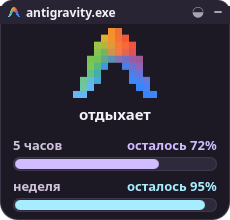
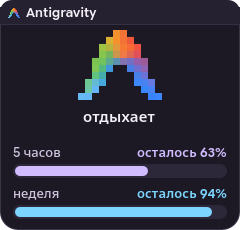
Fix status detection: strict TTY CLI tracking, microsecond glog parsing, smooth Google Sans Flex font rendering, Material 3 Expressive polish

diff --git a/contents/ui/PixelWindow.qml b/contents/ui/PixelWindow.qml
@@ -120,54 +120,18 @@ Rectangle {
                 }
 
                 Text {
-                    text: root.titleText
+                    text: (root.titleText === "antigravity.exe" && PixelTheme.isRounded) ? "Antigravity" : root.titleText
                     font.family: PixelTheme.pixelFontFamily
                     font.pixelSize: root.titleFontSize
-                    font.bold: PixelTheme.isRounded
+                    font.weight: PixelTheme.isRounded ? Font.DemiBold : Font.Normal
+                    font.letterSpacing: PixelTheme.isRounded ? 0.2 : 0
                     color: PixelTheme.textTitle
-                    renderType: Text.NativeRendering
+                    renderType: PixelTheme.isPixelFont ? Text.NativeRendering : Text.QtRendering
                     antialiasing: !PixelTheme.isPixelFont
                 }
 
                 Item {
                     Layout.fillWidth: true
-                }
-
-                // Interactive Theme Switcher Button
-                Rectangle {
-                    implicitWidth: Math.max(18, Math.round(20 * root.spacingScale))
-                    implicitHeight: Math.max(16, Math.round(18 * root.spacingScale))
-                    color: themeBtnArea.containsMouse ? Qt.rgba(1, 1, 1, 0.15) : "transparent"
-                    radius: PixelTheme.isRounded ? 4 : 0
-
-                    Text {
-                        anchors.centerIn: parent
-                        text: "◒"
-                        font.pixelSize: Math.max(10, Math.round(12 * root.spacingScale))
-                        color: themeBtnArea.containsMouse ? PixelTheme.activeColor : PixelTheme.textMuted
-                    }
-
-                    MouseArea {
-                        id: themeBtnArea
-                        anchors.fill: parent
-                        hoverEnabled: true
-                        cursorShape: Qt.PointingHandCursor
-                        onClicked: {
-                            const next = PixelTheme.getNextTheme(PixelTheme.activeThemeId);
-                            PixelTheme.activeThemeId = next;
-                            if (typeof Plasmoid !== "undefined" && Plasmoid.configuration) {
-                                Plasmoid.configuration.theme = next;
-                            }
-                        }
-                    }
-                }
-
-                // Minimize dash
-                Rectangle {
-                    implicitWidth: Math.max(7, Math.round(8 * root.spacingScale))
-                    implicitHeight: Math.max(2, Math.round(2 * root.spacingScale))
-                    color: PixelTheme.textMuted
-                    radius: PixelTheme.isRounded ? 1 : 0
                 }
             }
         }
@@ -214,9 +178,10 @@ Rectangle {
                         text: root.statusText
                         font.family: PixelTheme.pixelFontFamily
                         font.pixelSize: root.statusFontSize
-                        font.bold: PixelTheme.isRounded
+                        font.weight: PixelTheme.isRounded ? Font.DemiBold : Font.Normal
+                        font.letterSpacing: PixelTheme.isRounded ? 0.3 : 0
                         color: PixelTheme.textPrimary
-                        renderType: Text.NativeRendering
+                        renderType: PixelTheme.isPixelFont ? Text.NativeRendering : Text.QtRendering
                         antialiasing: !PixelTheme.isPixelFont
                     }
                 }

diff --git a/contents/ui/PixelTheme.qml b/contents/ui/PixelTheme.qml
@@ -26,6 +26,16 @@ QtObject {
         return "retro_pixel";
     }
 
+    function getBestFont(preferredList, fallback) {
+        const available = Qt.fontFamilies();
+        for (let i = 0; i < preferredList.length; i++) {
+            if (available.indexOf(preferredList[i]) !== -1) {
+                return preferredList[i];
+            }
+        }
+        return fallback;
+    }
+
     function getThemeName(themeId) {
         for (let i = 0; i < themeList.length; i++) {
             if (themeList[i].id === themeId) {
@@ -42,22 +52,24 @@ QtObject {
             return {
                 windowBg: "#1c1924",
                 windowRadius: 18,
-                headerBg: "#292433",
+                headerBg: "#252130",
                 headerRadius: 18,
-                headerBorder: "transparent",
+                headerBorder: "#352f44",
                 frameBorder: "#3a3447",
                 frameBorderWidth: 1,
                 frameHighlight: "transparent",
-                slotBg: "#2f2a3b",
-                slotBorder: "#3f394d",
-                slotRadius: 8,
+                slotBg: "#2d273a",
+                slotBorder: "transparent",
+                slotRadius: 12,
                 textPrimary: "#f5eff7",
-                textMuted: "#a9a1b4",
-                textLabel: "#cec3db",
+                textTitle: "#f5eff7",
+                textMuted: "#9a93a6",
+                textLabel: "#d0c4de",
                 activeColor: "#d0bcff",
                 dimColor: "#332c3f",
-                activeColor2: "#a6eeff",
-                fontFamily: "Google Sans Flex, Google Sans, Roboto Flex, Roboto, Noto Sans, system-ui, sans-serif",
+                activeColor2: "#7cd5ff",
+                dimColor2: "#20343f",
+                fontFamily: getBestFont(["Google Sans Flex", "Google Sans", "Roboto Flex", "Roboto", "Noto Sans"], "sans-serif"),
                 isPixelFont: false,
                 isRounded: true
             };
@@ -154,7 +166,7 @@ QtObject {
                 dimColor: "#2b243b",
                 activeColor2: "#a6e3a1",
                 dimColor2: "#1e2e24",
-                fontFamily: "Google Sans Flex, Google Sans, Inter, Roboto, Noto Sans, sans-serif",
+                fontFamily: getBestFont(["Google Sans Flex", "Google Sans", "Inter", "Roboto", "Noto Sans"], "sans-serif"),
                 isPixelFont: false,
                 isRounded: true
             };
@@ -178,7 +190,7 @@ QtObject {
                 dimColor: "#1d2538",
                 activeColor2: "#bb9af7",
                 dimColor2: "#2a223a",
-                fontFamily: "Google Sans Flex, Google Sans, Inter, Roboto, Noto Sans, sans-serif",
+                fontFamily: getBestFont(["Google Sans Flex", "Google Sans", "Inter", "Roboto", "Noto Sans"], "sans-serif"),
                 isPixelFont: false,
                 isRounded: true
             };

diff --git a/contents/ui/PixelProgressBar.qml b/contents/ui/PixelProgressBar.qml
@@ -31,9 +31,10 @@ ColumnLayout {
             text: root.label
             font.family: PixelTheme.pixelFontFamily
             font.pixelSize: root.fontSize
-            font.bold: !PixelTheme.isPixelFont
+            font.weight: PixelTheme.isRounded ? Font.Medium : Font.Normal
+            font.letterSpacing: PixelTheme.isRounded ? 0.1 : 0
             color: PixelTheme.textLabel
-            renderType: Text.NativeRendering
+            renderType: PixelTheme.isPixelFont ? Text.NativeRendering : Text.QtRendering
             antialiasing: !PixelTheme.isPixelFont
         }
 
@@ -45,9 +46,10 @@ ColumnLayout {
             text: "осталось " + root.percent + "%"
             font.family: PixelTheme.pixelFontFamily
             font.pixelSize: root.fontSize
-            font.bold: !PixelTheme.isPixelFont
+            font.weight: PixelTheme.isRounded ? Font.DemiBold : Font.Normal
+            font.letterSpacing: PixelTheme.isRounded ? 0.2 : 0
             color: root.activeColor
-            renderType: Text.NativeRendering
+            renderType: PixelTheme.isPixelFont ? Text.NativeRendering : Text.QtRendering
             antialiasing: !PixelTheme.isPixelFont
         }
     }
@@ -58,13 +60,13 @@ ColumnLayout {
         implicitHeight: root.barHeight
         color: PixelTheme.slotBg
         border.color: PixelTheme.slotBorder
-        border.width: 1
-        radius: PixelTheme.slotRadius
+        border.width: (PixelTheme.slotBorder !== "transparent" && PixelTheme.slotBorder !== "") ? 1 : 0
+        radius: PixelTheme.isRounded && !PixelTheme.isPixelFont ? height / 2 : PixelTheme.slotRadius
 
         // Material 3 Continuous Pill Mode vs Retro Segmented Mode
         Loader {
             anchors.fill: parent
-            anchors.margins: PixelTheme.isRounded ? 2 : 1
+            anchors.margins: PixelTheme.isRounded && !PixelTheme.isPixelFont ? 2 : 1
             sourceComponent: PixelTheme.isRounded && !PixelTheme.isPixelFont ? continuousBarComp : segmentedBarComp
         }
 
@@ -81,7 +83,7 @@ ColumnLayout {
                     anchors.bottom: parent.bottom
                     width: Math.max(0, Math.min(parent.width, (root.percent / 100.0) * parent.width))
                     color: root.activeColor
-                    radius: Math.max(2, PixelTheme.slotRadius - 1)
+                    radius: height / 2
 
                     Behavior on width {
                         NumberAnimation { duration: 250; easing.type: Easing.OutCubic }

diff --git a/contents/scripts/status_provider.py b/contents/scripts/status_provider.py
@@ -21,17 +21,25 @@ def check_custom_script(script_path):
     return None
 
 def get_active_agy_pid():
-    """Find the interactive agy CLI process PID, ignoring background usage queries."""
+    """
+    Find the interactive agy CLI process PID attached to a terminal (TTY/PTS).
+    Background fetchers (pipes) and non-interactive daemons are strictly ignored.
+    """
     try:
         res = subprocess.run(["pgrep", "-x", "agy"], capture_output=True, text=True)
         if res.returncode == 0:
             for pid_str in res.stdout.strip().split():
                 pid = int(pid_str)
                 try:
+                    # Interactive CLI session must have stdin attached to a PTS or TTY
+                    fd0 = os.readlink(f"/proc/{pid}/fd/0")
+                    if not (fd0.startswith("/dev/pts/") or fd0.startswith("/dev/tty")):
+                        continue
+
                     with open(f"/proc/{pid}/cmdline", "rb") as f:
                         cmdline = f.read().decode("utf-8", errors="ignore")
-                    # Ignore background usage fetchers and one-shot commands
-                    if "/usage" in cmdline or "--refresh-only" in cmdline:
+                    # Ignore background usage fetchers or one-shots
+                    if "/usage" in cmdline or "--refresh-only" in cmdline or "-p" in cmdline:
                         continue
                     return pid
                 except Exception:
@@ -40,13 +48,30 @@ def get_active_agy_pid():
         pass
     return None
 
+import re
+from datetime import datetime
+
+GLOG_RE = re.compile(r'^[IWEF](\d{2})(\d{2})\s+(\d{2}):(\d{2}):(\d{2})\.(\d{6})')
+
+def parse_glog_timestamp(line):
+    m = GLOG_RE.match(line)
+    if not m:
+        return None
+    month, day, hour, minute, second, micro = map(int, m.groups())
+    now = datetime.now()
+    try:
+        dt = datetime(now.year, month, day, hour, minute, second, micro)
+        return dt.timestamp()
+    except Exception:
+        return None
+
 def check_agy_status(active_pid):
     """
     Determine agent state:
-    - спит: no interactive agy process is running
-    - думает: streamGenerateContent active in current session log (< 5s)
-    - работает: tool/bash active in current session log (< 5s)
-    - отдыхает: session is idle, waiting for user input
+    - спит: no interactive agy process running in any terminal
+    - думает: streamGenerateContent active within last 4s
+    - работает: tool/bash running (< 4s or child process active)
+    - отдыхает: interactive session is idle, waiting for user input
     """
     if not active_pid:
         return "спит"
@@ -54,7 +79,15 @@ def check_agy_status(active_pid):
     now = time.time()
     active_log = None
 
-    # Get the exact log file being written by this active agy process
+    # 1. Check if the active agy process is currently running child commands (tools/bash)
+    try:
+        res = subprocess.run(["pgrep", "-P", str(active_pid)], capture_output=True, text=True)
+        if res.returncode == 0 and res.stdout.strip():
+            return "работает"
+    except Exception:
+        pass
+
+    # 2. Get the exact log file being written by this active agy process
     try:
         fd1 = os.readlink(f"/proc/{active_pid}/fd/1")
         if os.path.exists(fd1) and fd1.endswith(".log"):
@@ -62,7 +95,6 @@ def check_agy_status(active_pid):
     except Exception:
         pass
 
-    # Fallback to the latest log file if fd1 wasn't a log
     if not active_log:
         logs = sorted(glob.glob(os.path.expanduser("~/.gemini/antigravity-cli/log/cli-*.log")), key=os.path.getmtime)
         if logs:
@@ -70,15 +102,17 @@ def check_agy_status(active_pid):
 
     if active_log and os.path.exists(active_log):
         try:
-            mtime = os.path.getmtime(active_log)
-            # If written to within the last 5 seconds, it is actively processing
-            if (now - mtime) < 5.0:
-                with open(active_log, "rb") as f:
-                    f.seek(max(0, os.path.getsize(active_log) - 4096))
-                    tail = f.read().decode("utf-8", errors="ignore")
-                if "streamGenerateContent" in tail or "Thinking" in tail or "reasoning" in tail:
-                    return "думает"
-                return "работает"
+            with open(active_log, "r", errors="ignore") as f:
+                lines = f.readlines()[-40:]
+            
+            # Check recent log events in reverse order
+            for line in reversed(lines):
+                ts = parse_glog_timestamp(line)
+                if ts and (now - ts) <= 4.0:
+                    if "streamGenerateContent" in line or "Thinking" in line or "reasoning" in line:
+                        return "думает"
+                    if "go_command.go" in line or "ExecuteTool" in line:
+                        return "работает"
         except Exception:
             pass
 
@@ -136,20 +170,16 @@ def get_agy_usage(is_active):
 
     now = time.time()
 
-    # Only fetch if active or no cache at all
-    if not cached or "timestamp" not in cached:
-        live = fetch_live_quota()
-        if live:
-            return live
-    elif is_active and (now - cached.get("timestamp", 0)) > CACHE_TTL:
-        # Refresh in background only when agy is actually active
-        try:
-            subprocess.Popen(
-                [sys.executable, "-c", "import sys; from status_provider import fetch_live_quota; fetch_live_quota()"],
-                cwd=os.path.dirname(os.path.abspath(__file__))
-            )
-        except Exception:
-            pass
+    # If agy is active and cache is expired or missing, trigger background refresh
+    if is_active:
+        if not cached or (now - cached.get("timestamp", 0)) > CACHE_TTL:
+            try:
+                subprocess.Popen(
+                    [sys.executable, "-c", "import sys; from status_provider import fetch_live_quota; fetch_live_quota()"],
+                    cwd=os.path.dirname(os.path.abspath(__file__))
+                )
+            except Exception:
+                pass
 
     if cached:
         return cached
